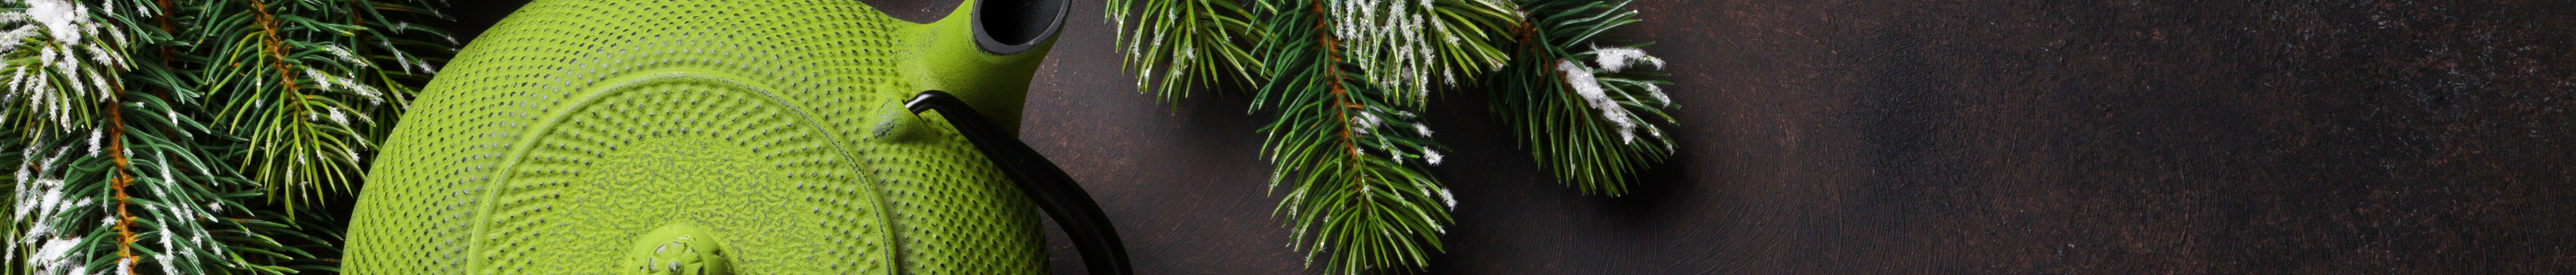
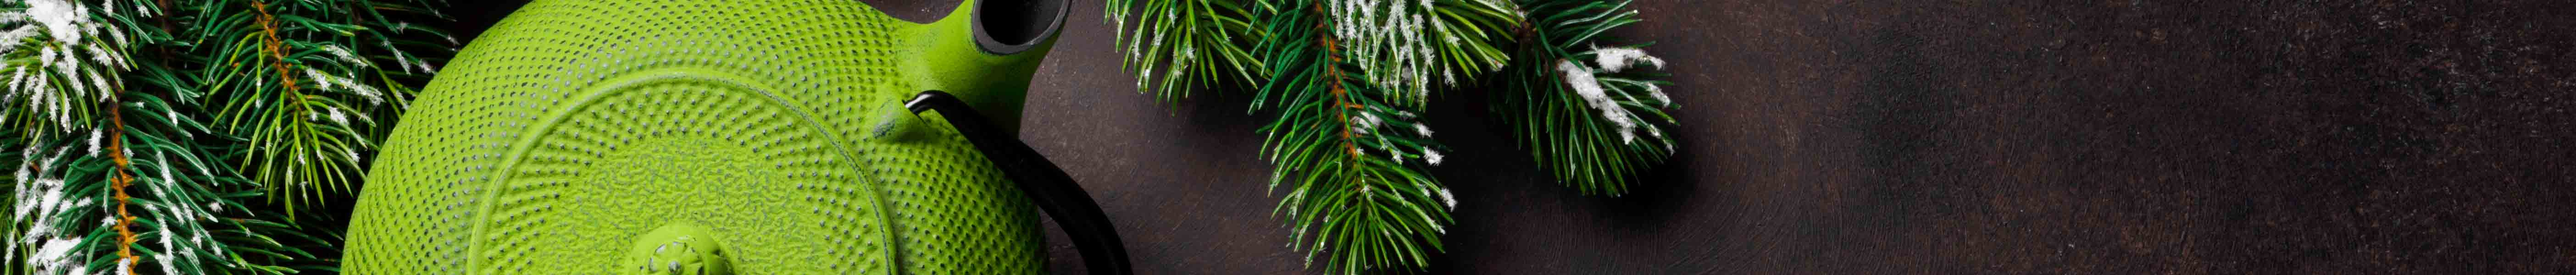
sdaj

diff --git a/resources/css/main.css b/resources/css/main.css
@@ -1,2 +1,2 @@
-*{text-decoration:none;list-style:none;margin:0}body{font-family:'Oswald', sans-serif;font-family:'Roboto', sans-serif}.wrapper{grid-template-columns:repeat(12, 1fr);grid-template-rows:auto;display:grid;grid-gap:5px}.header{grid-column:1/13;grid-row:1/2}.tearoom{grid-template-columns:repeat(12, 1fr);grid-template-rows:auto;display:grid;grid-column:2/12;grid-row:2/3;display:block;margin:auto;background-image:url(../img/hero/julHEROLARGE.png);height:200px;width:100%;background-size:cover}.blog{grid-template-columns:repeat(12, 1fr);grid-template-rows:auto;display:grid;grid-column:2/12;grid-row:3/4;display:inline-block;margin:auto;background-image:url(../img/hero/good_teaHEROLARGE.png);height:200px;width:100%;background-size:cover}.giftbox{grid-template-columns:repeat(12, 1fr);grid-template-rows:auto;display:grid;grid-column:2/12;grid-row:4/5;display:inline-block;margin:auto;background-image:url(../img/hero/giftHEROGRØN.png);height:200px;width:100%;background-size:cover;background-position:bottom}.blog a h1,.tearoom a h1,.giftbox a h1{color:#f59b1a;font-family:"oswald", sans-serif;font-size:8em;text-align:center}.tea{display:flex;grid-column:2/12;grid-row:5/6;justify-content:space-evenly}.eco{display:inline-block}.green{display:inline-block}.white{display:inline-block}.black{display:inline-block}.dragon{display:inline-block}.herb{display:inline-block}.sale{grid-column:2/12;grid-row:6/7}footer{background-color:#f59b1a;grid-column:1/13;grid-row:7/8}.iframediv{margin-bottom:35px;margin-top:-20px;text-align:center}.show{display:inline-block}.hide{display:none}.filter a p{font-size:2.5em;color:white;text-transform:capitalize;font-family:oswald, sans-serif}.filter{width:200px;height:200px}#ecofilter{background-image:url(../img/Chamomile-Tea-BenefitsGRØN01.jpg);background-size:cover}#greenfilter{background-image:url(../img/Green_teaGRØN.jpg);background-size:cover}#whitefilter{background-image:url(../img/white_teaGRØN.jpg);background-size:cover}#blackfilter{background-image:url(../img/black_teaGRØN.jpg);background-size:cover}#dragonfilter{background-image:url(../img/oolong_teaGRØN.jpg);background-size:cover}#herbfilter{background-image:url(../img/herb_teaGRØN.jpg);background-size:cover}#mixedfilter{background-image:url(../img/mixed_teaGRØN.jpg);background-size:cover}#form{background:#f59b1a;color:#fff}#form div h4{font-family:'Oswald', sans-serif}#form div h3{font-family:"oswald", sans-serif}.one{width:98.5%;font-family:'Roboto', sans-serif;background-color:#f59b1a;color:#fff;border:solid 2px #fff}::placeholder{color:#fff}#comment{width:98.5%;font-family:'Roboto', sans-serif;background-color:#f59b1a;color:#fff;border:solid 2px #fff}.submitbutton{background-color:#f59b1a;color:#fff;border:solid 2px #fff}fieldset{border:solid 1px #f59b1a}.formcontainer{display:grid;grid-template-columns:repeat(4, 1fr);grid-gap:5px}.catbut{background-color:#fff;font-family:'Roboto', sans-serif;font-weight:lighter;border:0}.sale{display:grid;grid-template-columns:repeat(5, 1fr);grid-gap:5px}@media only screen and (max-width: 1050px){.tearoom{grid-column:1/13}.blog{grid-column:1/13}.giftbox{grid-column:1/13}.tea{grid-column:1/13;justify-content:space-between}.filter{width:140px;height:140px}}@media only screen and (max-width: 420px){nav{display:none}.blog a h2,.tearoom a h2,.giftbox a h2{color:#f59b1a;text-align:center;font-family:"oswald", sans-serif;font-size:5em}.filter{width:100px;height:100px;display:block}.tea{display:grid;grid-template-columns:repeat(4, 1fr)}.ethical_logo img{width:100%}.iframediv iframe{width:100%}.category figure img{width:100%}.sale{grid-template-columns:repeat(3, 1fr)}h1{margin:0;font-family:"Oswald", sans-serif;color:#fff;font-size:4em;text-align:center;margin-left:-47%}#header a{text-decoration:none;color:#fff;font-family:Roboto, sans-serif;position:relative;top:-88px;left:87%}.contain{display:grid;grid-template-columns:repeat(1, 1fr)}}@media only screen and (max-width: 380px){.filter{width:92px;height:92px;display:block}h1{margin:0;font-family:"Oswald", sans-serif;color:#fff;font-size:4em;text-align:center;margin-left:-47%}#header a{text-decoration:none;color:#fff;font-family:Roboto, sans-serif;position:relative;top:-88px;left:87%}.contain{display:grid;grid-template-columns:repeat(1, 1fr)}}.adress{background-color:#f59b1a;color:white;font-size:2em;text-transform:capitalize;text-align:center;margin:2% 0;padding:2% 0;font-family:Roboto, sans-serif}.adress p{margin:0px}.filter a img{width:95%}.filter{display:flex;justify-content:center;align-items:center}.header{display:grid}nav{text-align:right}nav ul{margin-right:2%;margin-top:1%}.logo{text-align:center}.inline{display:inline-block;margin:0 5px 0 0}.headline{margin-left:0%;text-align:center;color:#709a2d;font-family:Oswald, sans-serif;font-size:3em}a{color:#475e30}form fieldset div{display:inline-block}input[type=text]{padding:5px;margin:5px 0}textarea{resize:none;padding:5px}fieldset{padding:0.5%}div{vertical-align:top}
+*{text-decoration:none;list-style:none;margin:0}body{font-family:'Oswald', sans-serif;font-family:'Roboto', sans-serif}.wrapper{grid-template-columns:repeat(12, 1fr);grid-template-rows:auto;display:grid;grid-gap:5px}.header{grid-column:1/13;grid-row:1/2}.tearoom{grid-template-columns:repeat(12, 1fr);grid-template-rows:auto;display:grid;grid-column:2/12;grid-row:2/3;display:block;margin:auto;background-image:url(../img/hero/julHEROLARGE200.jpg);height:200px;width:100%;background-size:cover}.blog{grid-template-columns:repeat(12, 1fr);grid-template-rows:auto;display:grid;grid-column:2/12;grid-row:3/4;display:inline-block;margin:auto;background-image:url(../img/hero/good_teaHEROLARGE200.jpg);height:200px;width:100%;background-size:cover}.giftbox{grid-template-columns:repeat(12, 1fr);grid-template-rows:auto;display:grid;grid-column:2/12;grid-row:4/5;display:inline-block;margin:auto;background-image:url(../img/hero/giftHEROGRØN.jpg);height:200px;width:100%;background-size:cover;background-position:bottom}.blog a h1,.tearoom a h1,.giftbox a h1{color:#f59b1a;font-family:"oswald", sans-serif;font-size:8em;text-align:center}.tea{display:flex;grid-column:2/12;grid-row:5/6;justify-content:space-evenly}.eco{display:inline-block}.green{display:inline-block}.white{display:inline-block}.black{display:inline-block}.dragon{display:inline-block}.herb{display:inline-block}.sale{grid-column:2/12;grid-row:6/7}footer{background-color:#f59b1a;grid-column:1/13;grid-row:7/8}.iframediv{margin-bottom:35px;margin-top:-20px;text-align:center}.show{display:inline-block}.hide{display:none}.filter a p{font-size:2.5em;color:white;text-transform:capitalize;font-family:oswald, sans-serif}.filter{width:200px;height:200px}#ecofilter{background-image:url(../img/Chamomile-Tea-BenefitsGRØN01.jpg);background-size:cover}#greenfilter{background-image:url(../img/Green_teaGRØN.jpg);background-size:cover}#whitefilter{background-image:url(../img/white_teaGRØN.jpg);background-size:cover}#blackfilter{background-image:url(../img/black_teaGRØN.jpg);background-size:cover}#dragonfilter{background-image:url(../img/oolong_teaGRØN.jpg);background-size:cover}#herbfilter{background-image:url(../img/herb_teaGRØN.jpg);background-size:cover}#mixedfilter{background-image:url(../img/mixed_teaGRØN.jpg);background-size:cover}#form{background:#f59b1a;color:#fff}#form div h4{font-family:'Oswald', sans-serif}#form div h3{font-family:"oswald", sans-serif}.one{width:98.5%;font-family:'Roboto', sans-serif;background-color:#f59b1a;color:#fff;border:solid 2px #fff}::placeholder{color:#fff}#comment{width:98.5%;font-family:'Roboto', sans-serif;background-color:#f59b1a;color:#fff;border:solid 2px #fff}.submitbutton{background-color:#f59b1a;color:#fff;border:solid 2px #fff}fieldset{border:solid 1px #f59b1a}.formcontainer{display:grid;grid-template-columns:repeat(4, 1fr);grid-gap:5px}.catbut{background-color:#fff;font-family:'Roboto', sans-serif;font-weight:lighter;border:0}.sale{display:grid;grid-template-columns:repeat(5, 1fr);grid-gap:5px}@media only screen and (max-width: 1050px){.tearoom{grid-column:1/13}.blog{grid-column:1/13}.giftbox{grid-column:1/13}.tea{grid-column:1/13;justify-content:space-between}.filter{width:140px;height:140px}}@media only screen and (max-width: 420px){nav{display:none}.blog a h2,.tearoom a h2,.giftbox a h2{color:#f59b1a;text-align:center;font-family:"oswald", sans-serif;font-size:5em}.filter{width:100px;height:100px;display:block}.tea{display:grid;grid-template-columns:repeat(4, 1fr)}.ethical_logo img{width:100%}.iframediv iframe{width:100%}.category figure img{width:100%}.sale{grid-template-columns:repeat(3, 1fr)}h1{margin:0;font-family:"Oswald", sans-serif;color:#fff;font-size:4em;text-align:center;margin-left:-47%}#header a{text-decoration:none;color:#fff;font-family:Roboto, sans-serif;position:relative;top:-88px;left:87%}.contain{display:grid;grid-template-columns:repeat(1, 1fr)}}@media only screen and (max-width: 380px){.filter{width:92px;height:92px;display:block}h1{margin:0;font-family:"Oswald", sans-serif;color:#fff;font-size:4em;text-align:center;margin-left:-47%}#header a{text-decoration:none;color:#fff;font-family:Roboto, sans-serif;position:relative;top:-88px;left:87%}.contain{display:grid;grid-template-columns:repeat(1, 1fr)}}.adress{background-color:#f59b1a;color:white;font-size:2em;text-transform:capitalize;text-align:center;margin:2% 0;padding:2% 0;font-family:Roboto, sans-serif}.adress p{margin:0px}.filter a img{width:95%}.filter{display:flex;justify-content:center;align-items:center}.header{display:grid}nav{text-align:right}nav ul{margin-right:2%;margin-top:1%}.logo{text-align:center}.inline{display:inline-block;margin:0 5px 0 0}.headline{margin-left:0%;text-align:center;color:#709a2d;font-family:Oswald, sans-serif;font-size:3em}a{color:#475e30}form fieldset div{display:inline-block}input[type=text]{padding:5px;margin:5px 0}textarea{resize:none;padding:5px}fieldset{padding:0.5%}div{vertical-align:top}
 /*# sourceMappingURL=main.css.map */
